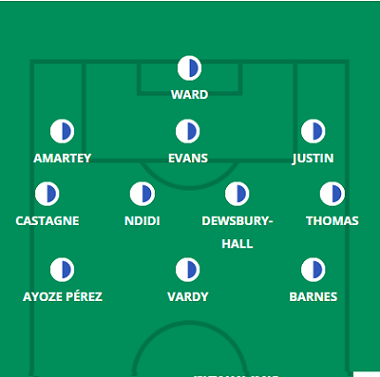
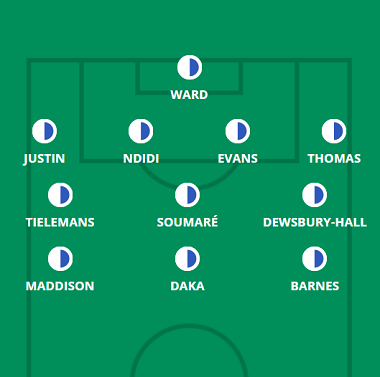
everton, leicester, liverpool united

diff --git a/liverpool.html b/liverpool.html
@@ -66,7 +66,7 @@
             <hgroup>
                 <h1> Provável Escalação</h1>
                 <h2 class="direita"> por FabioVascão </h2>
-                <h3 class="direita"> Atualizado em 30/Agosto/2022 </h3>
+                <h3 class="direita"> Atualizado em 02/Setembro/2022 </h3>
             </hgroup>
     
             <h2 class="time"> <img src="_fotos/_logos/logoliverpool.png" />Liverpool</h2>
@@ -75,9 +75,9 @@
                     <img src="_fotos/_dinamicas/liverpool.png" />
                 </figure>
             </aside>
-                <div class="escalacao"><h2 class="titulo">Ultimas Notícias</h2> <h4><p>Darwin Nunez (suspenso), Thiago Alcantara (lesão múscular), Diogo Jota (lesão na coxa), Alex Oxlade-Chamberlain (lesão múscular), Ibrahima Konate (lesão múscular) e Naby Keita (lesão múscular) permanecem fora, mas Curtis Jones (lesão múscular), Joel Matip (lesão múscular) ), Calvin Ramsay (lesão múscular) e Caoimhin Kelleher (lesão múscular) voltaram a treinar de alguma forma esta semana, então os Reds estão gradualmente recuperando os corpos após um mês difícil. Se Matip e Jones estão aptos o suficiente para desafiar o onze inicial, ainda não se sabe (Matip está fora há apenas duas semanas, então pode estar mais longe do que o ausente de longo prazo Jones), mas Jurgen Klopp pode decidir ficar com o time que derrotou o Bournemouth no sábado, independentemente, salvando qualquer rotação para o próximo derby de Merseyside, já que nenhum clube tem uma reviravolta mais apertada nas semanas de jogos 5-6 do que o Liverpool. Harvey Elliott parece estar bem depois de ter sido retirado contra o Cherries no intervalo por precaução, embora Klopp tenha alternativas em James Milner, de 36 anos, e o novato Fabio Carvalho no meio, se necessário. A confortável margem de vitória na semana 4 permitiu a Klopp substituir Andy Robertson mais uma vez no meio do segundo tempo em um exercício de economia de energia, então Kostas Tsimikas pode mais uma vez ser usado como alívio no jogo antes de potencialmente entrar no acerto de contas para começar no Parque Goodison.</p></h4><br>
-                    <h4><strong>Jogadores fora da próxima partida:</strong> Thiago Alcántara, Davies, Keita, Konaté, Oxlade-Chamberlain, Ramsay, Diogo Jota, Rhys Williams e Darwin Nunez</h4><br><br>
-                    <h4><strong>Jogadores dúvidas:</strong> Jones, Kelleher e Matip</h4>
+                <div class="escalacao"><h2 class="titulo">Ultimas Notícias</h2> <h4><p>Uma longa lista de lesões do Liverpool ainda inclui Naby Keita (lesão múscular), Jordan Henderson (lesão múscular), Joel Matip (lesão múscular), Thiago Alcantara (lesão múscular), Alex Oxlade-Chamberlain (lesão múscular), Ibrahima Konate (lesão múscular) e Calvin Ramsay (lesão nas costas). , enquanto Arthur Melo parece improvável de estrear por causa de problemas de permissão de trabalho. Darwin Nunez está de regresso de castigo, pelo menos, enquanto Diogo Jota regressou aos treinos na quinta-feira depois de um problema na coxa e pode ficar no banco. Com o elenco esticado, Klopp não é capaz de rodar tanto quanto normalmente faria no final de uma semana de três jogos em que os Reds tiveram o menor tempo de retorno das semanas 5-6 de qualquer time. Com James Milner como favorito na ausência de Henderson (Curtis Jones está de volta de uma longa lesão e Fabio Carvalho é um novato nos derbies de Merseyside), os principais dilemas de Klopp são provavelmente Darwin x Roberto Firmino no topo e Joel Matip x Joe Gomez no meio-campo. Firmino e Gomez são os atuais titulares, com o brasileiro em particular em bom estado ultimamente, então é puramente um caso de forma versus condicionamento físico, já que Klopp se prepara para voltar menos de 63 horas após a vitória sobre o Newcastle. Kostas Tsimikas é, obviamente, uma opção para substituir Andy Robertson, mas o escocês teve seus minutos gerenciados na forma de substituições precoces em cada uma das últimas quatro semanas de jogos, então a mesma coisa pode acontecer novamente em Goodison Park.</p></h4><br>
+                    <h4><strong>Jogadores fora da próxima partida:</strong> Thiago Alcántara, Davies, Henderson, Keita, Konaté, Oxlade-Chamberlain, Ramsay</h4><br><br>
+                    <h4><strong>Jogadores dúvidas:</strong> Kelleher, Arthur e Diogo Jota</h4>
                 </div> 
         </header>
         </article>

diff --git a/leicester.html b/leicester.html
@@ -66,7 +66,7 @@
             <hgroup>
                 <h1> Provável Escalação</h1>
                 <h2 class="direita"> por FabioVascão </h2>
-                <h3 class="direita"> Atualizado em 30/Agosto/2022 </h3>
+                <h3 class="direita"> Atualizado em 02/Setembro/2022 </h3>
             </hgroup>
     
             <h2 class="time"> <img src="_fotos/_logos/logoleicester.png" />Leicester</h2>
@@ -75,7 +75,7 @@
                     <img src="_fotos/_dinamicas/leicester.png" />
                 </figure>
             </aside>
-                <div class="escalacao"><h2 class="titulo">Ultimas Notícias</h2> <h4><p>Ryan Bertrand (lesão no joelho) e Ricardo Pereira (lesão no tendão de aquiles) permanecem de fora e Wesley Fofana não está sendo considerado para a seleção, enquanto Brendan Rodgers deu um pouco convincente "estamos esperançosos" quando perguntado se James Maddison poderia estar de volta disponível após uma "pontadinha" o manteve fora da derrota do Chelsea. O Leicester tem uma reviravolta generosa de sábado a quinta-feira para as semanas de jogos 4-5, portanto, qualquer rotação liderada por fadiga que Rodgers faça pode ser retida para a partida de Brighton, que ocorre menos de 72 horas após esta. Os comentários de Rodgers sobre o futuro de Caglar Soyuncu sugerem que Daniel Amartey manterá seu lugar no meio-campo, apesar de suas deficiências óbvias, e as mudanças parecem improváveis em outras partes da zaga. Rodgers recompensou o novo compromisso de Boubakary Soumare de permanecer no clube e as atuações nos treinos com uma partida contra o Chelsea, embora contradizendo isso um pouco, Youri Tielemans novamente começou no meio-campo central, apesar do belga estar constantemente ligado a uma trasnferência. Esta partida acontece no dia do prazo final, então há todas as chances de que Tielemans esteja no centro de um cabo de guerra por seus serviços na preparação para o pontapé inicial. Os homens esquecidos Dennis Praet e Ayoze Perez podem começar mais longe se Maddison e Tielemans não estiverem disponíveis.</p></h4><br>
+                <div class="escalacao"><h2 class="titulo">Ultimas Notícias</h2> <h4><p>Ryan Bertrand (lesão no joelho) e Ricardo Pereira (lesão no tendão de aquiles) permanecem de fora, enquanto a falta de uma coletiva de imprensa para a 6ª rodada (além dos comentários feitos logo após a derrota do Manchester United) significa que não temos certeza se houve novas lesões contra os Red Devils ou se Daniel Amartey voltará de uma gripe. Brendan Rodgers confirmou que o banco de Timothy Castagne na quinta-feira não estava relacionado a lesões, sugerindo que talvez tenha havido alguma redução na estimativa do técnico do Leicester sobre o belga, enquanto Rodgers foi menos sutil sobre sua decisão de ignorar Caglar Soyuncu na ausência de Amartey, dizendo que o internacional da Turquia tinha sido pobre em treinamento. Wilfred Ndidi pode ter que continuar no meio-campo se Amartey ainda estiver fora e Wout Faes não estiver pronto para ser contratado após dois dias de treinamento, enquanto Luke Thomas se beneficiará se houver alguma omissão contínua de Castagne . Se o idoso Jamie Vardy terá até duas partidas no espaço de 72 horas é a próxima questão, já que seus minutos foram gerenciados com cuidado na última temporada, quando os Foxes enfrentaram uma reviravolta regular de quinta a domingo na Europa. Patson Daka ou Kelechi Iheanacho poderiam dar uma rara olhada no Amex, então jogadores como Marc Albrighton, Dennis Praet e Ayoze Perez são novas opções nas posições do meio-campo ofensivo, se necessário.</p></h4><br>
                     <h4><strong>Jogadores fora da próxima partida:</strong> Ricardo Pereira e Bertrand</h4><br><br>
                     <h4><strong>Jogadores dúvidas:</strong> Maddison</h4>
                 </div> 

diff --git a/united.html b/united.html
@@ -66,7 +66,7 @@
             <hgroup>
                 <h1> Provável Escalação</h1>
                 <h2 class="direita"> por FabioVascão </h2>
-                <h3 class="direita"> Atualizado em 30/Agosto/2022 </h3>
+                <h3 class="direita"> Atualizado em 02/Setembro/2022 </h3>
             </hgroup>
     
             <h2 class="time"> <img src="_fotos/_logos/logounited.png" />Manchester United</h2>
@@ -75,9 +75,9 @@
                     <img src="_fotos/_dinamicas/united.png" />
                 </figure>
             </aside>
-                <div class="escalacao"><h2 class="titulo">Ultimas Notícias</h2> <h4><p>Não teremos notícias de Erik ten Hag antes da partida de quinta-feira contra o Leicester City, por isso não sabemos as últimas notícias sobre Victor Lindelof (lesão na coxa), Facundo Pellistri (lesão no tornozelo), Anthony Martial (lesão no tendão de aquiles) ou qualquer outro novo condicionamento físico notícias - incluindo se o novo extremo Anthony está pronto para jogar desde o início. Deve haver algum ceticismo sobre se Cristiano Ronaldo também estará envolvido, já que o dia do jogo no King Power Stadium também é o dia do prazo de transferência, e o atacante veterano continua ligado a uma mudança do o clube. Pode ter que ser novamente Jadon Sancho e Anthony Elanga flanqueando Marcus Rashford no ataque se Anthony, Martial e Ronaldo não forem candidatos desde o início, com o experimento de Christian Eriksen 'falso nove' não bem-sucedido no início de agosto. Os quatro zagueiros parecem permanecer inalterados após duas exibições positivas nas semanas 3 e 4, portanto, quaisquer mudanças podem ocorrer no meio-campo, já que o controle de Scott McTominay em um ponto inicial parece cada vez mais fraco graças à chegada de Casemiro. O próprio Casemiro disse que compartilha uma "relação especial" com o compatriota Fred pela seleção, então será interessante ver se ten Hag planeja emparelhar os dois no meio-campo às custas de Bruno Fernandes ou Eriksen.</p></h4><br>
-                    <h4><strong>Jogadores fora da próxima partida:</strong> Bailly, Lindelof e Pellistri</h4><br><br>
-                    <h4><strong>Jogadores dúvidas:</strong> Martial</h4>
+                <div class="escalacao"><h2 class="titulo">Ultimas Notícias</h2> <h4><p>Facundo Pellistri (lesão no tornozelo) e Anthony Martial (lesão no tendão de aquiles) perderão a visita do Arsenal, enquanto Erik ten Hag não conseguiu oferecer qualquer prognóstico sobre Luke Shaw e Aaron Wan-Bissaka depois que eles ficaram de fora da vitória sobre o Leicester com o que seu técnico descreveu como "pequenas queixas". Ten Hag nomeou um time inalterado na sequência de três vitórias do United, então as mudanças não aplicadas serão poucas e distantes entre si quando o Arsenal vier chamar neste fim de semana. Scott McTominay certamente vai ceder sua vaga de titular para Casemiro mais cedo ou mais tarde, enquanto é 'quando' e não 'se' o lugar de Anthony Elanga será ocupado pelo novo contratado Antony, o ala brasileiro terá apenas duas sessões de treinamento com seus novos companheiros de equipe antes da 6ª rodada, enquanto ele não joga competitivamente há três semanas. David de Gea e os quatro zagueiros provavelmente não serão alterados, a menos que haja alguma lesão que não saibamos, enquanto Bruno Fernandes, Marcus Rashford e Jadon Sancho estão em destaque para aparecer mais à frente./p></h4><br>
+                    <h4><strong>Jogadores fora da próxima partida:</strong> Martial e Pellistri</h4><br><br>
+                    <h4><strong>Jogadores dúvidas:</strong> Shaw e Wan Bissaka</h4>
                 </div> 
         </header>
         </article>

diff --git a/everton.html b/everton.html
@@ -66,7 +66,7 @@
             <hgroup>
                 <h1> Provável Escalação</h1>
                 <h2 class="direita"> por FabioVascão </h2>
-                <h3 class="direita"> Atualizado em 30/Agosto/2022 </h3>
+                <h3 class="direita"> Atualizado em 02/Setembro/2022 </h3>
             </hgroup>
     
             <h2 class="time"> <img src="_fotos/_logos/logoeverton.png" />Everton</h2>
@@ -75,9 +75,9 @@
                     <img src="_fotos/_dinamicas/everton.png" />
                 </figure>
             </aside>
-                <div class="escalacao"><h2 class="titulo">Ultimas Notícias</h2> <h4><p>Mason Holgate (lesão no joelho) juntou-se a Abdoulaye Doucoure (lesão na coxa), Andros Townsend (lesão no joelho), Dominic Calvert-Lewin (lesão no joelho), Yerry Mina (lesão no tornozelo) e Ben Godfrey (lesão na perna) à margem da viagem a Leeds, com um dos Michael Keane, Seamus Coleman ou Vitalii Mykolenko devem substituir no meio-campo em Elland Road. Neal Maupay também está pronto para se envolver no time, mas depois de não chutar uma bola competitivamente desde maio e depois de treinar com o time completo do Everton uma vez antes do dia do jogo, Frank Lampard pode optar por colocá-lo em ação gradualmente - especialmente com uma equipe de alta octanagem como Leeds fornecendo a oposição na terça-feira. Tom Davies é uma alternativa na volancia, caso o recruta de verão Amadou Onana não seja capaz de suportar os rigores de duas partidas em pouco mais de 72 horas, mas Lampard não tem muitas alternativas seniores além disso, com isso certamente não sendo compatível para o lento Salomon Rondon aparecer.</p></h4><br>
-                    <h4><strong>Jogadores fora da próxima partida:</strong> Alli, Branthwaite, Calvert-Lewin, Godfrey, Doucore, Mina, Holgate e Townsend</h4><br><br>
-                    <h4><strong>Jogadores dúvidas:</strong> André Gomes</h4>
+                <div class="escalacao"><h2 class="titulo">Ultimas Notícias</h2> <h4><p>Mason Holgate (lesão no joelho), Abdoulaye Doucoure (lesão na coxa), Andros Townsend (lesão no joelho), Dominic Calvert-Lewin (lesão no joelho), Yerry Mina (lesão no tornozelo) e Ben Godfrey (lesão na perna) permanecem de fora, com Calvert-Lewin e Doucoure definidos para um potencial retorno em breve. As novas contratações Neal Maupay, Idrissa Gana Gueye e James Garner estão prontas para se juntar ao elenco da jornada, com o banco de reservas esperado para Gueye e Garner, devido às chegadas no prazo final e os comentários pré-jogo de Frank Lampard sobre "levá-los rápido ao time". Maupay tem a melhor chance de forçar seu caminho para o time titular esta semana, com seu novo gerente dizendo que ele vai "direto em consideração", mas Lampard destacou a "mobilidade" que o trio de ataque McNeil-Gray-Gordon trouxe para o lado ultimamente. A formação inicial também está em debate: Lampard abandonou o sistema de ala para o empate com o Leeds no meio da semana, mas não se surpreenda ao vê-lo jogar Michael Keane ou Seamus Coleman para o lado às custas de talvez Tom Davies se ele optar tocá-lo de forma conservadora no almoço de sábado.</p></h4><br>
+                    <h4><strong>Jogadores fora da próxima partida:</strong> Calvert-Lewin, Godfrey, Doucore, Mina e Townsend</h4><br><br>
+                    <h4><strong>Jogadores dúvidas:</strong> </h4>
                 </div> 
         </header>
         </article>
